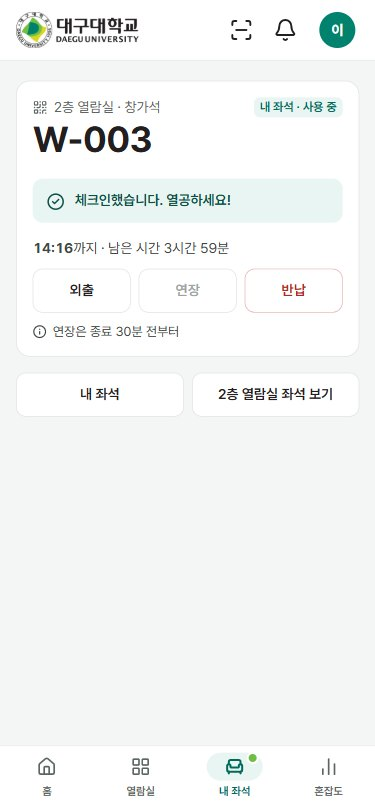
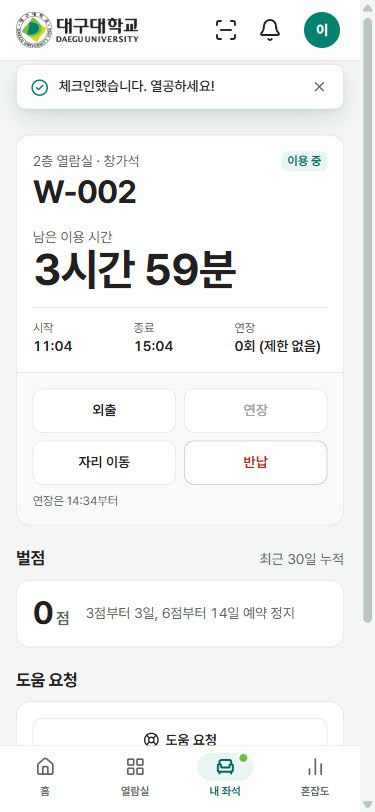
QR 처리 뒤 바로 내 좌석으로 이동, 가이드: 첫 화면에서 기기 수를 묻는 팝업

diff --git a/docs/guide.src.html b/docs/guide.src.html
@@ -210,8 +210,26 @@
   #together .seg { max-width: 420px; }
   #view-guide[data-dev="two"] .dev-one, #view-guide[data-dev="one"] .dev-two { display: none !important; }
   .dev-pick { margin-top: 18px; border: 1px solid rgba(255, 255, 255, 0.28); border-radius: 16px; padding: 14px 16px; background: rgba(255, 255, 255, 0.08); }
-  .dev-pick > b { display: block; font-size: 17px; }
-  .dev-pick .seg { max-width: 420px; margin-top: 10px; }
+  .dev-now { display: flex; align-items: center; justify-content: space-between; gap: 12px; flex-wrap: wrap; }
+  .dev-now b { font-size: 17px; }
+  .dev-open { min-height: 40px; padding: 0 16px; border-radius: 999px; border: 1px solid rgba(255, 255, 255, 0.6); background: rgba(255, 255, 255, 0.14); color: #fff; font: inherit; font-weight: 700; cursor: pointer; }
+  .dev-open.on-light { border-color: currentColor; background: var(--warn-tint); color: var(--warn); }
+  dialog.devdlg { border: 0; border-radius: 22px; padding: 22px; width: min(600px, calc(100vw - 28px)); max-height: calc(100dvh - 28px); overflow: auto; background: var(--surface); color: var(--ink); }
+  dialog.devdlg::backdrop { background: rgba(0, 0, 0, 0.62); }
+  dialog.devdlg h2 { font-size: 24px; font-weight: 800; letter-spacing: -0.01em; }
+  .dd-sub { color: var(--muted); margin-top: 4px; }
+  .dd-opts { display: grid; gap: 12px; margin-top: 16px; }
+  @media (min-width: 620px) { .dd-opts { grid-template-columns: 1fr 1fr; } }
+  .dd-opt { display: grid; gap: 8px; align-content: start; text-align: left; border: 2px solid var(--line); border-radius: 16px; padding: 16px; background: var(--bg); color: var(--ink); font: inherit; cursor: pointer; }
+  .dd-opt:hover, .dd-opt:focus-visible { border-color: var(--deep); outline: none; }
+  .dd-opt[aria-pressed="true"] { border-color: var(--deep); background: var(--tint); }
+  .dd-opt > b { font-size: 21px; display: flex; align-items: center; gap: 8px; }
+  .dd-rec { font-size: 12px; font-weight: 800; background: var(--deep); color: #fff; border-radius: 999px; padding: 2px 8px; }
+  .dd-row { display: grid; grid-template-columns: 58px minmax(0, 1fr); gap: 10px; align-items: start; font-size: 15px; }
+  .dd-row i { font-style: normal; font-weight: 800; font-size: 13px; text-align: center; border-radius: 8px; padding: 2px 0; background: var(--surface); border: 1px solid var(--line); }
+  .dd-how { font-size: 14px; color: var(--muted); border-top: 1px solid var(--line); padding-top: 8px; }
+  .dd-foot { margin-top: 14px; font-size: 14px; color: var(--muted); }
+  .dd-close { margin-top: 12px; width: 100%; min-height: 48px; border-radius: 12px; border: 1px solid var(--line); background: var(--surface); color: var(--ink); font: inherit; font-weight: 700; cursor: pointer; }
   .dev-pick p { margin-top: 10px; font-size: 15px; color: rgba(255, 255, 255, 0.9); max-width: none; }
   nav.toc li.dev-chip button { display: block; white-space: nowrap; font: inherit; font-weight: 700; font-size: 14px; color: var(--warn); background: var(--warn-tint); border: 1px solid currentColor; border-radius: 999px; padding: 8px 14px; cursor: pointer; }
   #together .devices { grid-template-columns: 1fr; }
@@ -325,6 +343,26 @@
 </style>
 
 <div id="view-guide" data-dev="two">
+<dialog class="devdlg" id="dev-dlg" aria-labelledby="dev-dlg-h">
+  <h2 id="dev-dlg-h">기기를 몇 대 쓸 수 있나요?</h2>
+  <p class="dd-sub">고른 방식에 맞는 설명만 보여 드립니다.</p>
+  <div class="dd-opts">
+    <button type="button" class="dd-opt" data-pick="two" aria-pressed="false">
+      <b>두 대 <span class="dd-rec">권장</span></b>
+      <span class="dd-row"><i>휴대폰</i><span>학생 앱. QR을 찍고 푸시 알림을 받습니다</span></span>
+      <span class="dd-row"><i>PC</i><span>가이드와 관리자 화면. 다른 휴대폰이어도 됩니다</span></span>
+      <span class="dd-how">QR을 실제로 카메라로 찍고, 상대 화면이 바뀌는 것을 바로 봅니다.</span>
+    </button>
+    <button type="button" class="dd-opt" data-pick="one" aria-pressed="false">
+      <b>한 대</b>
+      <span class="dd-row"><i>휴대폰</i><span>앱과 가이드를 번갈아 엽니다</span></span>
+      <span class="dd-row"><i>QR</i><span>찍는 대신 가이드의 "이 기기에서 좌석 열기"로 엽니다</span></span>
+      <span class="dd-how">학생과 관리자는 로그아웃하고 다시 로그인하며 바꿉니다. 화면이 바뀌는 순간은 볼 수 없습니다.</span>
+    </button>
+  </div>
+  <p class="dd-foot">위쪽 목차 끝의 "기기" 버튼으로 언제든 바꿀 수 있습니다.</p>
+  <button type="button" class="dd-close" data-dev-close hidden>닫기</button>
+</dialog>
   <nav class="toc" aria-label="목차">
     <ol>
       <li><a href="#install">앱으로 설치</a></li>
@@ -336,7 +374,7 @@
       <li><a href="#rules">규칙 한 장</a></li>
       <li class="ext"><a href="#accounts-all">전체 계정</a></li>
       <li class="ext"><a href="#seat-qr">좌석 QR (가이드)</a></li>
-      <li class="ext dev-chip"><button type="button" data-dev-toggle>기기 <span data-dev-label>두 대</span></button></li>
+      <li class="ext dev-chip"><button type="button" data-dev-open>기기 <span data-dev-label>두 대</span></button></li>
     </ol>
   </nav>
 <div class="hero">
@@ -350,14 +388,9 @@
       <div><dt>관리자 로그인</dt><dd>학번 칸에 a + 내 학번, 같은 비밀번호</dd></div>
     </dl>
     <div class="dev-pick">
-      <b>먼저 고르세요 · 기기를 몇 대 쓰나요?</b>
-      <div class="seg dev-seg" role="group" aria-label="기기 수">
-        <button type="button" data-dev="two" aria-pressed="true">두 대 (권장)</button>
-        <button type="button" data-dev="one" aria-pressed="false">한 대</button>
-      </div>
-      <p class="dev-two">휴대폰은 학생 앱, PC(또는 다른 휴대폰)는 가이드와 관리자 화면으로 씁니다. 좌석 QR을 실제로 카메라로 찍고, 상대 화면이 바뀌는 것을 바로 봅니다.</p>
-      <p class="dev-one">휴대폰 하나로 앱과 가이드를 번갈아 엽니다. QR은 찍는 대신 가이드의 "이 기기에서 좌석 열기"로 엽니다. 학생과 관리자는 로그아웃하고 다시 로그인하며 바꿉니다.</p>
-      <p style="font-size:13px;opacity:0.8">고른 방식에 맞는 설명만 나옵니다. 위쪽 목차 끝의 "기기" 버튼으로 언제든 바꿀 수 있습니다.</p>
+      <div class="dev-now"><b>기기 <span data-dev-label>두 대</span>로 보는 중</b><button type="button" class="dev-open" data-dev-open>바꾸기</button></div>
+      <p class="dev-two">휴대폰은 학생 앱, PC(또는 다른 휴대폰)는 가이드와 관리자 화면으로 씁니다.</p>
+      <p class="dev-one">휴대폰 하나로 앱과 가이드를 번갈아 엽니다.</p>
     </div>
   </div>
 </div>
@@ -626,7 +659,7 @@
               <summary>자세히</summary>
             <ul>
               <li>홈 위쪽의 초록색 내 자리 칸에 좌석 번호와 남은 시간이 나옵니다. 누르면 카메라가 켜집니다.</li>
-              <li>내 좌석 QR을 찍으면 버튼을 더 누르지 않아도 바로 체크인됩니다. 찍을 QR은 앱이 아니라 가이드에 있습니다. 다음 장에서 이어집니다.</li>
+              <li>내 좌석 QR을 찍으면 버튼을 더 누르지 않아도 바로 체크인되고 내 좌석 화면으로 넘어갑니다. 찍을 QR은 앱이 아니라 가이드에 있습니다. 다음 장에서 이어집니다.</li>
               <li>다른 좌석을 찍으면 "내 좌석이 아닙니다" 창이 뜹니다. 빈자리면 그 좌석으로 바꿔 체크인할 수 있습니다.</li>
               <li>마음이 바뀌면 <b>예약 취소</b>. 취소한 좌석은 10분 동안 다시 예약할 수 없습니다.</li>
             </ul>
@@ -712,16 +745,18 @@
         <div class="step has-shot card">
           <div>
             <span class="where a">앱에서 합니다 · 휴대폰</span>
-            <h3>체크인됩니다</h3>
+            <h3>바로 내 좌석으로 넘어가며 체크인됩니다</h3>
             <div class="viz">
-              <figure class="shot"><div class="shotbox"><img src="{{IMG:checkin}}" alt="W-003 좌석 화면. 내 좌석 사용 중 표시, 체크인했습니다 열공하세요 라는 초록색 안내, 14시 16분까지 남은 시간 3시간 59분, 외출 연장 반납 버튼"><i class="hl" style="left:8.53%;top:21.92%;width:83.20%;height:5.67%"><b>1</b></i><i class="hl out-l" style="left:67.20%;top:11.70%;width:25.60%;height:3.20%"><b>2</b></i><i class="hl" style="left:8.53%;top:32.76%;width:83.20%;height:6.16%"><b>3</b></i></div><figcaption>체크인 완료</figcaption></figure>
+              <figure class="shot"><div class="shotbox"><img src="{{IMG:checkin}}" alt="내 좌석 화면. 위에 체크인했습니다 열공하세요 라는 안내가 떠 있고, W-002 이용 중, 남은 이용 시간 3시간 59분, 외출 연장 자리 이동 반납 버튼"><i class="hl" style="left:4.27%;top:8.13%;width:87.47%;height:5.42%"><b>1</b></i><i class="hl out-l" style="left:75.47%;top:18.47%;width:12.80%;height:2.96%"><b>2</b></i><i class="hl out-l" style="left:8.80%;top:27.71%;width:78.93%;height:8.62%"><b>3</b></i><i class="hl" style="left:8.80%;top:47.66%;width:78.93%;height:12.32%"><b>4</b></i></div><figcaption>체크인 직후의 내 좌석</figcaption></figure>
               <div class="viz-side">
               <ol class="legend">
-                <li><span>내 좌석 QR을 <span class="dev-two">찍자마자</span><span class="dev-one">열자마자</span> 체크인됩니다</span></li>
-                <li><span>상태가 <b>사용 중</b>으로 바뀝니다</span></li>
-                <li><span>이 화면에서 바로 외출·연장·반납을 할 수 있습니다</span></li>
+                <li><span>내 좌석 QR을 <span class="dev-two">찍으면</span><span class="dev-one">열면</span> 바로 <b>내 좌석</b> 화면으로 넘어가고, 체크인했다는 안내가 뜹니다</span></li>
+                <li><span>상태가 <b>이용 중</b>으로 바뀝니다</span></li>
+                <li><span>남은 이용 시간이 흐르기 시작합니다</span></li>
+                <li><span>여기서 바로 외출·연장·자리 이동·반납을 합니다</span></li>
               </ol>
             <p class="note bad">예약하고 15분 안에 여기까지 오지 않으면 자동 취소되고 벌점 1점입니다.</p>
+            <p class="note">외출에서 돌아와 내 좌석 QR을 찍었을 때도 같은 화면으로 바로 넘어갑니다.</p>
               </div>
             </div>
           </div>
@@ -1079,11 +1114,8 @@
       <header>
         <span class="role both">6단계 · 이용자 + 관리자</span>
         <h2>함께 해 보기</h2>
-        <p>관리자와 학생이 서로 주고받는 기능입니다. 처음에 고른 기기 수에 맞는 순서로 나옵니다. 여기서도 바꿀 수 있습니다.</p>
-        <div class="seg dev-seg" role="group" aria-label="기기 수" id="dev-seg">
-          <button type="button" data-dev="two" aria-pressed="true">기기 두 대 (권장)</button>
-          <button type="button" data-dev="one" aria-pressed="false">기기 한 대</button>
-        </div>
+        <p>관리자와 학생이 서로 주고받는 기능입니다. 처음에 고른 기기 수에 맞는 순서로 나옵니다.</p>
+        <p style="margin-top:10px"><button type="button" class="dev-open on-light" data-dev-open>기기 <span data-dev-label>두 대</span> · 바꾸기</button></p>
         <div class="devices">
           <div class="dev-two"><b>기기 두 대</b><span>휴대폰은 학생(내 학번), PC는 관리자(a + 내 학번)로 로그인해 두는 것이 가장 쉽습니다. 휴대폰 두 대도 됩니다. 상대 화면이 바로 바뀌는 것을 볼 수 있습니다. 좌석 QR은 한쪽 화면에 띄우고 다른 쪽으로 찍습니다.</span></div>
           <div class="dev-one"><b>기기 한 대</b><span>아래 순서의 "전환" 줄마다 로그아웃하고 다른 계정으로 다시 로그인합니다. 화면이 바뀌는 순간은 볼 수 없고, 다시 들어가서 결과를 확인합니다. QR은 찍을 수 없으니 좌석 QR 화면의 "이 기기에서 좌석 열기"를 누릅니다. 아이폰은 사파리로 열리므로 사파리에서도 한 번 로그인해 둡니다.</span></div>
@@ -1469,21 +1501,52 @@
     });
   })();
 
-  // 기기 두 대 / 한 대: 한 번 고르면 가이드 전체가 그 방식의 설명만 보여 준다
+  // 기기 두 대 / 한 대: 처음 들어오면 팝업으로 묻고, 고른 방식의 설명만 보여 준다. 언제든 다시 열어 바꿀 수 있다
   (function () {
     var root = document.getElementById("view-guide");
-    var btns = Array.prototype.slice.call(document.querySelectorAll(".dev-seg button"));
+    var dlg = document.getElementById("dev-dlg");
+    var picks = Array.prototype.slice.call(dlg.querySelectorAll("[data-pick]"));
     var labels = Array.prototype.slice.call(document.querySelectorAll("[data-dev-label]"));
-    var toggles = Array.prototype.slice.call(document.querySelectorAll("[data-dev-toggle]"));
-    function set(v) {
+    var closeBtn = dlg.querySelector("[data-dev-close]");
+    var chosen = null;
+    try { chosen = localStorage.getItem("du-guide-dev"); } catch (e) {}
+    if (chosen !== "one" && chosen !== "two") chosen = null;
+    function apply(v) {
       root.setAttribute("data-dev", v);
-      btns.forEach(function (b) { b.setAttribute("aria-pressed", b.getAttribute("data-dev") === v ? "true" : "false"); });
+      picks.forEach(function (b) { b.setAttribute("aria-pressed", b.getAttribute("data-pick") === v ? "true" : "false"); });
       labels.forEach(function (l) { l.textContent = v === "one" ? "한 대" : "두 대"; });
-      try { localStorage.setItem("du-guide-dev", v); } catch (e) {}
     }
-    btns.forEach(function (b) { b.addEventListener("click", function () { set(b.getAttribute("data-dev")); }); });
-    toggles.forEach(function (t) { t.addEventListener("click", function () { set(root.getAttribute("data-dev") === "one" ? "two" : "one"); }); });
-    try { if (localStorage.getItem("du-guide-dev") === "one") set("one"); } catch (e) {}
+    function open() {
+      // 아직 고른 적이 없으면 고를 때까지 닫지 못한다
+      closeBtn.hidden = !chosen;
+      if (chosen) apply(chosen);
+      if (typeof dlg.showModal === "function") { if (!dlg.open) dlg.showModal(); }
+      else dlg.setAttribute("open", "");
+    }
+    function close() {
+      if (dlg.open && typeof dlg.close === "function") dlg.close();
+      else dlg.removeAttribute("open");
+    }
+    picks.forEach(function (b) {
+      b.addEventListener("click", function () {
+        var first = !chosen;
+        chosen = b.getAttribute("data-pick");
+        apply(chosen);
+        try { localStorage.setItem("du-guide-dev", chosen); } catch (e) {}
+        close();
+        // 처음 고른 뒤에는 가이드 첫 단계로 내려간다
+        if (first) {
+          var sec = document.querySelector("#view-guide main section:not([hidden])");
+          if (sec) window.scrollTo(0, sec.getBoundingClientRect().top + window.scrollY - 76);
+        }
+      });
+    });
+    closeBtn.addEventListener("click", close);
+    dlg.addEventListener("cancel", function (e) { if (!chosen) e.preventDefault(); });
+    dlg.addEventListener("click", function (e) { if (e.target === dlg && chosen) close(); });
+    Array.prototype.forEach.call(document.querySelectorAll("[data-dev-open]"), function (t) { t.addEventListener("click", open); });
+    if (chosen) apply(chosen);
+    else if (!root.hidden) open();
   })();
 
   // 가이드 / 전체 계정 / 좌석 QR 화면 전환

diff --git a/src/app/s/[token]/page.tsx b/src/app/s/[token]/page.tsx
@@ -14,6 +14,8 @@ import { rpc, supabase } from "@/lib/supabase";
 import { SEAT_TYPE_LABEL, STATE_LABEL, type SeatContext, type SeatInfo } from "@/lib/types";
 import { cx, fmtRemain, fmtTime, getPosition } from "@/lib/util";
 
+const TO_ME = new Set(["check_in", "come_back", "confirm_presence", "move_seat", "switch_seat"]);
+
 /** 좌석 QR을 스캔하면 열리는 화면. 상황에 맞는 동작 하나를 가장 크게 보여 준다 */
 export default function SeatQrPage() {
   const { token } = useParams<{ token: string }>();
@@ -52,6 +54,13 @@ export default function SeatQrPage() {
     run(key, async () => {
       const pos = ctx?.gps_required ? await getPosition() : null;
       const r = await rpc(fn, { p_token: token, p_lat: pos?.lat ?? null, p_lng: pos?.lng ?? null, ...extra });
+      // 내 좌석에 대한 처리는 결과를 알리고 바로 내 좌석 화면으로 간다 (중간 화면을 한 번 더 거치지 않게)
+      if (TO_ME.has(fn)) {
+        toast(okText(r), "ok");
+        await refresh();
+        router.replace("/me");
+        return;
+      }
       setDone(okText(r));
       setConfirm(null);
       await Promise.all([refresh(), load()]);
@@ -91,6 +100,10 @@ export default function SeatQrPage() {
     } else if (st === "in_use" && ctx.pending_report) {
       auto.current = true;
       scan("here", "confirm_presence", () => "자리에 있음을 확인했습니다. 벌점은 없습니다.");
+    } else if (st === "in_use") {
+      // 이용 중인 내 좌석을 다시 찍었으면 할 일이 없으니 내 좌석 화면으로
+      auto.current = true;
+      router.replace("/me");
     }
     // eslint-disable-next-line react-hooks/exhaustive-deps -- 좌석 정보를 처음 받았을 때 한 번만
   }, [ctx]);
@@ -217,8 +230,9 @@ export default function SeatQrPage() {
                         await rpc("reserve_seat", { p_seat: seat.id, p_minutes: (hours ?? maxHours) * 60 });
                         const pos = ctx.gps_required ? await getPosition() : null;
                         await rpc("check_in", { p_token: token, p_lat: pos?.lat ?? null, p_lng: pos?.lng ?? null });
-                        setDone(`${seat.label} 좌석 이용을 시작했습니다.`);
-                        await Promise.all([refresh(), load()]);
+                        toast(`${seat.label} 좌석 이용을 시작했습니다.`, "ok");
+                        await refresh();
+                        router.replace("/me");
                       })
                     }
                   >
